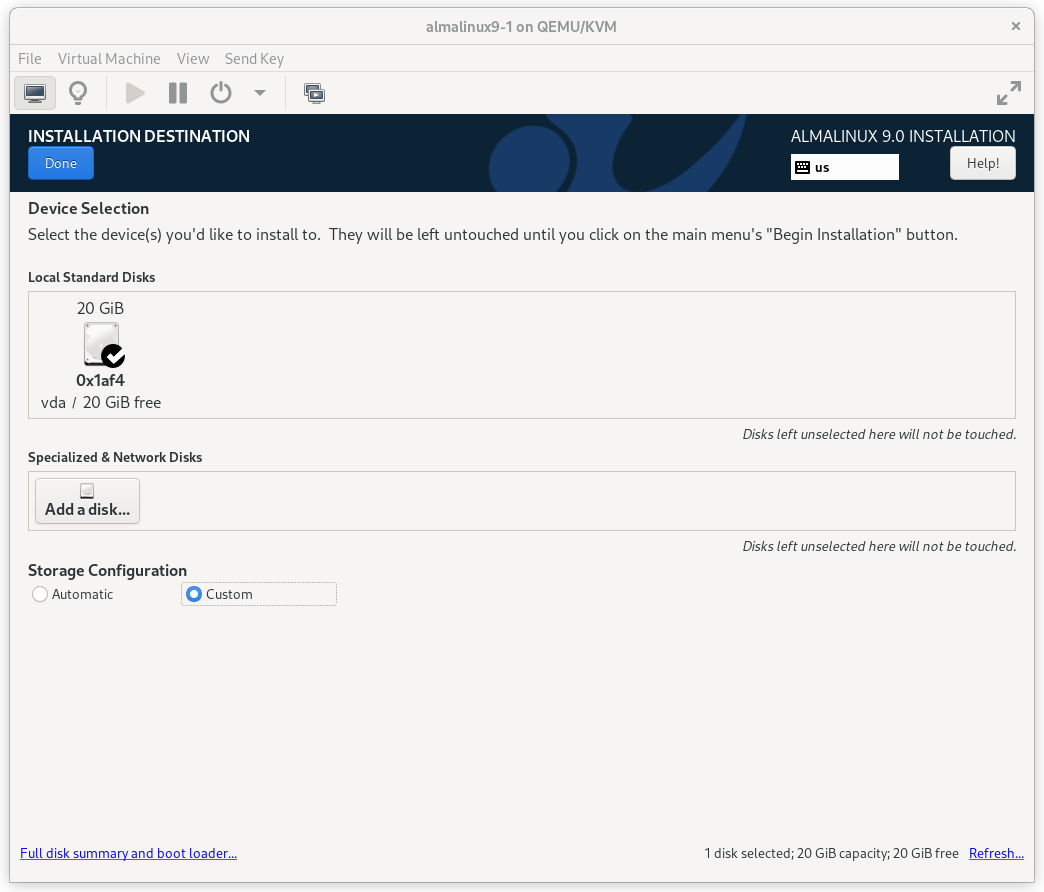
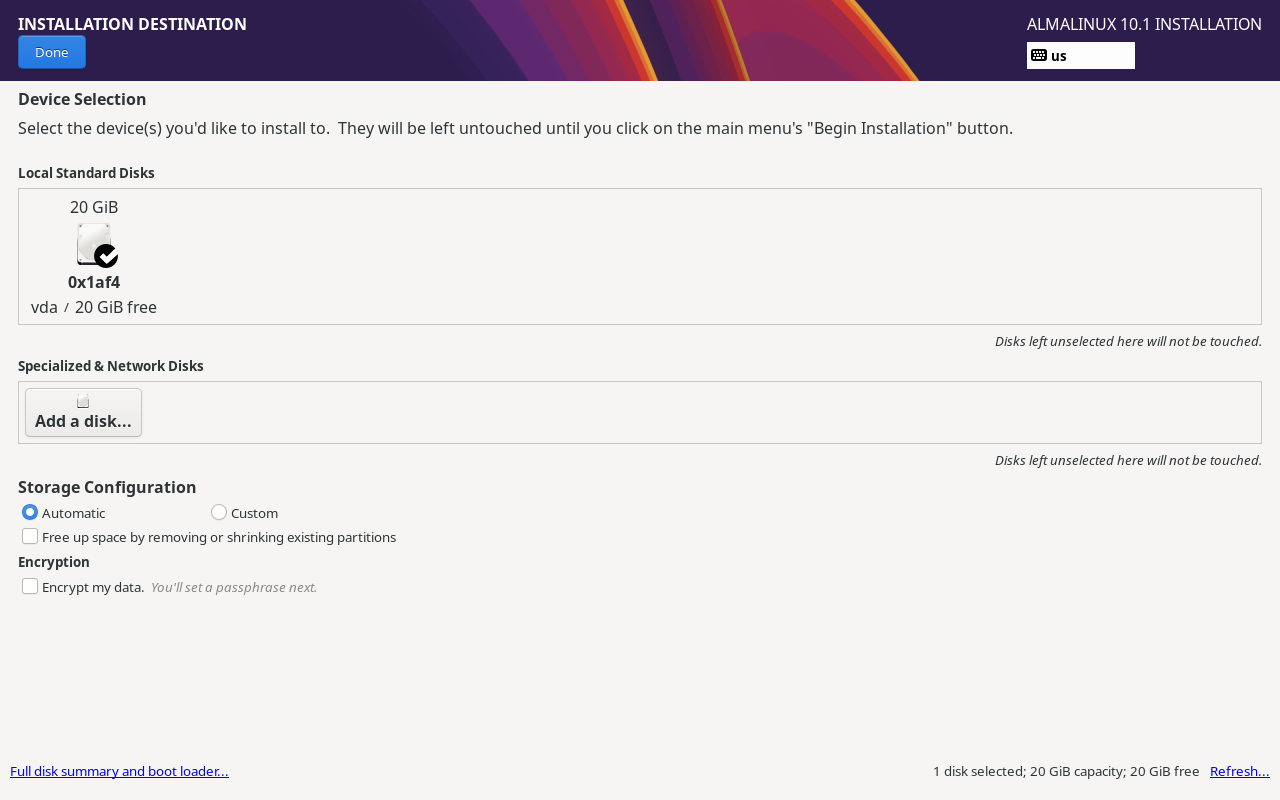
Doc: Clusters from Scratch: Update Installation chapter.
* Update screenshots for Alma Linux 10.

* Fix the Installation Destination screenshot to be correct instead of a
  copy of the Manual Partitioning screenshot.

* Update instructions for ssh'ing since we can't do that as root by
  default anymore.

* Minor updates to command output.

Ref T910

diff --git a/doc/sphinx/Clusters_from_Scratch/installation.rst b/doc/sphinx/Clusters_from_Scratch/installation.rst
@@ -9,10 +9,10 @@ ______________________
 
 Download the latest |CFS_DISTRO| |CFS_DISTRO_VER| DVD ISO by navigating to
 the |CFS_DISTRO| `mirrors list <https://mirrors.almalinux.org/isos.html>`_,
-selecting the latest 9.x version for your machine's architecture, selecting a
-download mirror that's close to you, and finally selecting the latest .iso file
-that has “dvd” in its name. Use the image to boot a virtual machine, or burn it
-to a DVD or USB drive and boot a physical server from that.
+selecting the latest |CFS_DISTRO_VER|.x version for your machine's architecture,
+selecting a download mirror that's close to you, and finally selecting the latest
+.iso file that has “dvd” in its name. Use the image to boot a virtual machine, or
+burn it to a DVD or USB drive and boot a physical server from that.
 
 After starting the installation, select your language and keyboard layout at
 the welcome screen.
@@ -89,9 +89,9 @@ Enter the **INSTALLATION DESTINATION** section and select the disk where you
 want to install the OS. Then under **Storage Configuration**, select **Custom**
 and press **Done**.
 
-.. figure:: images/ManualPartitioning.png
+.. figure:: images/InstallationDestination.png
     :align: center
-    :alt: Installation Destination Screen
+    :alt: Screen
 
     |CFS_DISTRO| |CFS_DISTRO_VER| Installation Destination Screen
 
@@ -144,21 +144,34 @@ settings (such as time zone or NTP server), you can do this in the
 
     |CFS_DISTRO| |CFS_DISTRO_VER| Time & Date Screen
 
-
-Root Password
+Root Account
 ______________________________
 
-In order to continue to the next step, a **Root Password** must be set. Be sure
-to check the box marked **Allow root SSH login with password**.
+In the **ROOT ACCOUNT** section, it is highly recommended to disable the root
+account.  We'll use a local user to perform administration tasks with sudo.
 
 .. figure:: images/RootPassword.png
     :align: center
-    :alt: Root Password Screen
+    :alt: Root Account Screen
 
-    |CFS_DISTRO| |CFS_DISTRO_VER| Root Password Screen
+    |CFS_DISTRO| |CFS_DISTRO_VER| Root Account Screen
 
-Press **Done**. (Depending on the password you chose, you may need to do so
-twice.)
+Press **Done**.
+
+Create User
+______________________________
+
+In the **CREATE USER** section, create a new user with a secure password.  Make
+sure to select **Add administrative privileges to the user account (wheel group
+membership)** so the user can administer the system.
+
+.. figure:: images/CreateUser.png
+    :align: center
+    :alt: Create User Screen
+
+    |CFS_DISTRO| |CFS_DISTRO_VER| Create User Screen
+
+Press **Done**.
 
 Finish Install
 ______________
@@ -219,7 +232,7 @@ Next, ensure that the routes are as expected:
 .. code-block:: console
 
     [root@pcmk-1 ~]# ip route
-    default via 192.168.122.1 dev enp1s0 proto static metric 100
+    default via 192.168.122.1 dev enp1s0 proto static 192.168.122.101 metric 100
     192.168.122.0/24 dev enp1s0 proto kernel scope link src 192.168.122.101 metric 100
 
 If there is no line beginning with ``default via``, then use ``nmcli`` to add a
@@ -266,7 +279,7 @@ From another host, check whether we can see the new host at all:
 
 .. code-block:: console
 
-    [gchin@gchin ~]$ ping -c 1 192.168.122.101
+    [chris@laptop ~]$ ping -c 1 192.168.122.101
     PING 192.168.122.101 (192.168.122.101) 56(84) bytes of data.
     64 bytes from 192.168.122.101: icmp_seq=1 ttl=64 time=0.344 ms
 
@@ -274,18 +287,25 @@ From another host, check whether we can see the new host at all:
     1 packets transmitted, 1 received, 0% packet loss, time 0ms
     rtt min/avg/max/mdev = 0.344/0.344/0.344/0.000 ms
 
-Next, login as ``root`` via SSH.
+Next, login as the user you created during installation via SSH.
 
 .. code-block:: console
 
-    [gchin@gchin ~]$ ssh root@192.168.122.101
+    [chris@laptop~]$ ssh 192.168.122.101
     The authenticity of host '192.168.122.101 (192.168.122.101)' can't be established.
     ECDSA key fingerprint is SHA256:NBvcRrPDLIt39Rf0Tz4/f2Rd/FA5wUiDOd9bZ9QWWjo.
+    This key is not known by any other names.
     Are you sure you want to continue connecting (yes/no/[fingerprint])? yes
     Warning: Permanently added '192.168.122.101' (ECDSA) to the list of known hosts.
-    root@192.168.122.101's password:
-    Last login: Tue Jan 10 20:46:30 2021
-    [root@pcmk-1 ~]#
+    chris@192.168.122.101's password:
+    Last login: Tue Feb 24 13:03:51 2026
+    [chris@pcmk-1 ~]#
+
+.. NOTE::
+
+    From here on, you'll need to be ``root`` to administer the system.  The
+    ``sudo`` command can be used to switch from the user you created during
+    installation to the ``root`` user.
 
 Apply Updates
 _____________
@@ -410,46 +430,42 @@ Create a new key and allow anyone with that key to log in:
 
    .. code-block:: console
 
-        [root@pcmk-1 ~]# ssh-keygen -f ~/.ssh/id_rsa -N ""
-        Generating public/private rsa key pair.
-        Your identification has been saved in /root/.ssh/id_rsa
-        Your public key has been saved in /root/.ssh/id_rsa.pub
+        [root@pcmk-1 ~]# ssh-keygen -f ~/.ssh/id_ed25519 -N ""
+        Generating public/private ed25519 key pair.
+        Your identification has been saved in /root/.ssh/id_ed25519
+        Your public key has been saved in /root/.ssh/id_ed25519.pub
         The key fingerprint is:
-        SHA256:h5AFPmXsGU4woOxRLYHW9lnU2wIQVOxpSRrsXbo/AX8 root@pcmk-1
+        SHA256:BhlHJU3REGOpO0FA7Mqvp60WaB/2unQOZki+0mZKfee8 root@pcmk-1
         The key's randomart image is:
-        +---[RSA 3072]----+
-        |   o+*BX*.       |
-        | .oo+.+*O o      |
-        | .+. +=% O o     |
-        | . .  =o%.o .    |
-        |  .    .S+..     |
-        |        ..o E    |
-        |         . o     |
-        |          o      |
-        |           .     |
-        +----[SHA256]-----+
+        +--[ED255219 256]--+
+        |     .o=++=+      |
+        |      o.*..       |
+        |     + B          |
+        |    . * o         |
+        |   ..+oo S        |
+        |   +B++ .         |
+        |  o=*o.o          |
+        |o.==oo..          |
+        | +B+.+E.          |
+        +----[SHA256]------+
 
-        [root@pcmk-1 ~]# cat ~/.ssh/id_rsa.pub >> ~/.ssh/authorized_keys
+        [root@pcmk-1 ~]# cat ~/.ssh/id_25519.pub >> ~/.ssh/authorized_keys
+        [root@pcmk-1 ~]# chmod 600 ~/.ssh/authorized_keys
 
-Install the key on the other node:
+Install the key on the other node.  Because you can't login as root on the
+console or over SSH yet (that's what we're setting up now), the easiest way
+to do this is as follows:
 
-.. code-block:: console
-
-    [root@pcmk-1 ~]# ssh-copy-id pcmk-2
-    /usr/bin/ssh-copy-id: INFO: Source of key(s) to be installed: "/root/.ssh/id_rsa.pub"
-    The authenticity of host 'pcmk-2 (192.168.122.102)' can't be established.
-    ED25519 key fingerprint is SHA256:QkJnJ3fmszY7kAuuZ7wxUC5CC+eQThSCF13XYWnZJPo.
-    This host key is known by the following other names/addresses:
-        ~/.ssh/known_hosts:1: 192.168.122.102
-    Are you sure you want to continue connecting (yes/no/[fingerprint])? yes
-    /usr/bin/ssh-copy-id: INFO: attempting to log in with the new key(s), to filter out any that are already installed
-    /usr/bin/ssh-copy-id: INFO: 1 key(s) remain to be installed -- if you are prompted now it is to install the new keys
-    root@pcmk-2's password:
-
-    Number of key(s) added: 1
-
-    Now try logging into the machine, with:   "ssh 'pcmk-2'"
-    and check to make sure that only the key(s) you wanted were added.
+#. SSH into both nodes as the regular user.
+#. Use ``sudo`` to become ``root`` on each node.
+#. On ``pcmk-1``, cat the ``/root/.ssh/id_ed25519`` file and copy its contents
+   with the mouse.
+#. On ``pcmk-2``, paste those contents into ``/root/.ssh/id_ed25519``.
+#. ``chmod 600 /root/.ssh/id_ed25519``.
+#. On ``pcmk-1``, cat the ``/root/.ssh/id_25519.pub`` file and copy its
+   contents with the mouse.
+#. On ``pcmk-2``, paste those contents into ``/root/.ssh/authorized_keys``.
+#. ``chmod 600 /root/.ssh/authorized_keys``
 
 Test that you can now run commands remotely, without being prompted:
 
@@ -458,9 +474,8 @@ Test that you can now run commands remotely, without being prompted:
     [root@pcmk-1 ~]# ssh pcmk-2 -- uname -n
     pcmk-2
 
-Finally, repeat this same process on the other node. For convenience, you can
-also generate an SSH key on your administrative machine and use ``ssh-copy-id``
-to copy it to both cluster nodes.
+It may also be handy to generate an SSH key on your administrative machine
+as your regular user and use ``ssh-copy-id`` to copy it to both cluster nodes.
 
 .. [#] You can also avoid this SPOF by specifying an ``addr`` option for each
        node when creating the cluster. We will discuss this in a later section.
